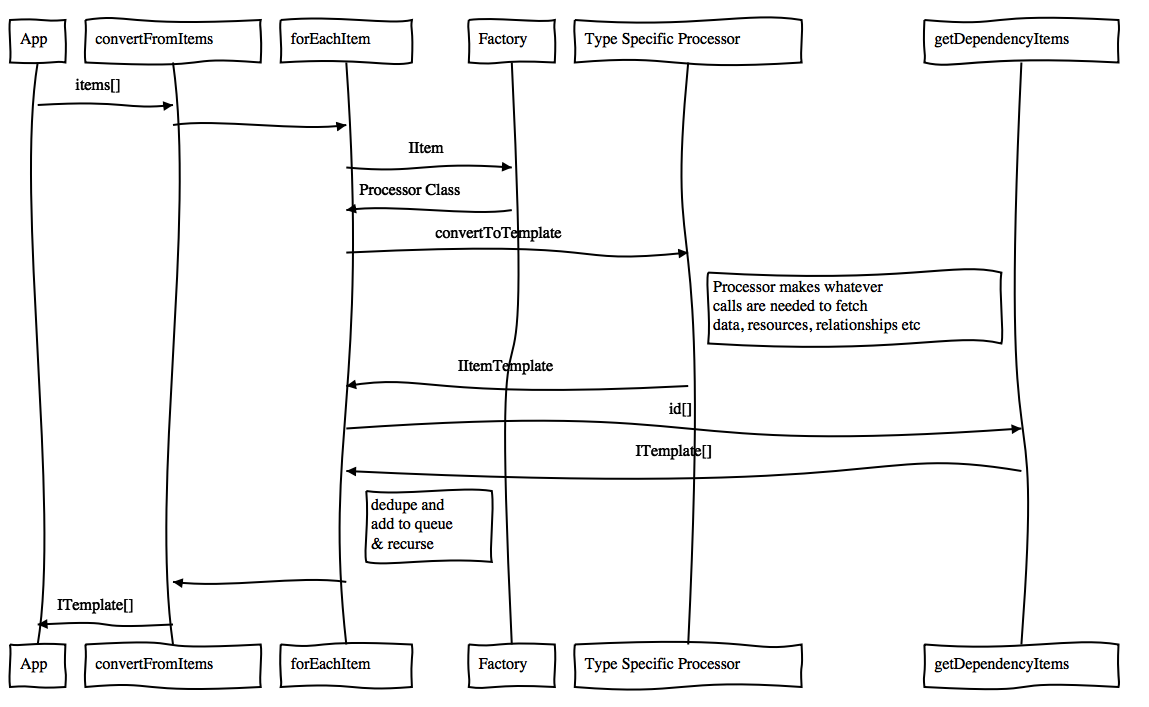
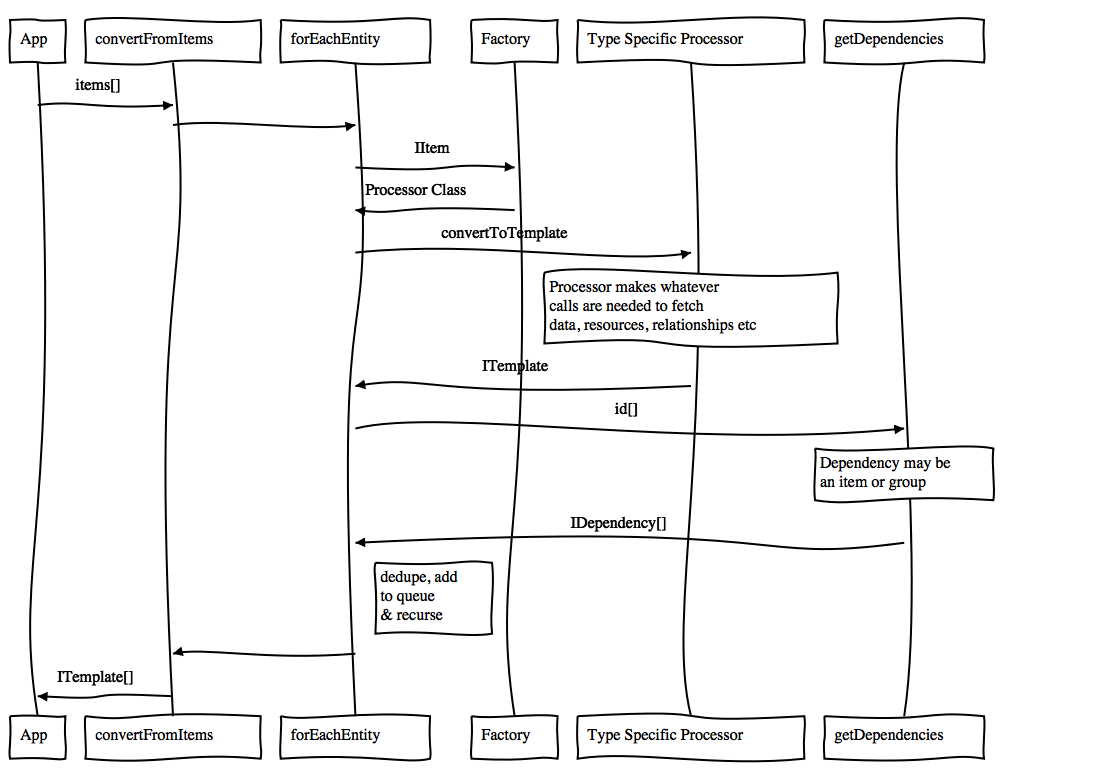
more updates re: group handling

Changed region(s): [[0.0, 0.0, 0.9775, 0.9958], [0.1222, 0.4668, 0.1527, 0.529], [0.8553, 0.2801, 0.8859, 0.3112]]

diff --git a/core-api.md b/core-api.md
@@ -5,6 +5,9 @@ The three main processes make up the "core" of the Solution.js system:
 - **Persistence**: store an array of templates in a "Solution" item
 - **Deployment**: create and connect a stack of new items, from an array of templates, optionally creating a Solution Item that has links to all the created items
 
+
+    
+
 # Conversion to Templates
 
 Key changes to this area of the codebase:
@@ -17,6 +20,27 @@ Key changes to this area of the codebase:
 The "Conversion" functions all return an array of `ITemplate` objects. This can then be directly used in the Deployment functions or persisted in a Solution item
 
 ![Conversion to Template Sequence Diagram](./diagrams/convert-to-template.png)
+
+## Unresolved Conversion Issues
+
+#### How to handle groups?
+**Problem**:  
+ - Some items depend on groups.
+ - Some items will just want the group created
+ - Some items will expect the group _content_ to be included as dependencies of the solution
+
+**Currently**:
+During the conversion process, groupId's are returned in the `dependencies` array, leading to complexity all over the place
+
+**Instead**
+Couple options here, none of which seem "complete" yet...
+
+a) Dependencies array is made up of `IDependency` objects like `{id: '3ef', type: 'Web Map'}, {id: 'bc7', type:'Group}`. Keeps a single array, but does not communicate if we need to include the group content...
+
+b) Processor fetchs the group, returns an `IGroupTemplate`, and if it wants the group contents templated, it should fetch all the item ids for the items in the group, and return them in `.dependencies[]`. The `IGroupTemplate`
+
+c) original processor returns `dependencies` array, and a `groups` array filled with objects `{id: '3ef', includeItems: true}`
+
 
 ## Convert Group Content to Templates
 
@@ -78,9 +102,9 @@ export saveAsSolutionTemplate(
   ):Promise<ISolutionModel> {...}
 ```
 
-*Note*: This process must also copy each of the `IResourceInfo`s to a resources of the Solution item itself, updating the `IResourceInfo.url` property as it does so.
+*Note*: This process must also copy each of the `ISolutionResource`s to a resources of the Solution item itself, updating the `ISolutionResource.sourceUrl` property as it does so.
 
-[IItemAdd](https://esri.github.io/arcgis-rest-js/api/types/IItemAdd/): Baseline information to create an item, in this case specific to creating the Solution item
+**Reference** [IItemAdd](https://esri.github.io/arcgis-rest-js/api/types/IItemAdd/): Baseline information to create an item, in this case specific to creating the Solution item. We may change this to a more minimal interface.
 
 # Deployment of a Solution
 This is the process of converting from templates, back into fully operational items.
@@ -94,6 +118,14 @@ Key changes to this area of the codebase:
 
 ![Deployment Sequence Diagram](./diagrams/deploy-from-template.png)
 
+
+## Unresolved Deployment Issues
+
+#### Handling sharing of deployed items to Groups
+- Groups should always be created before any items
+- GroupProcessor could handle the sharing of items to the group in the "second pass" 
+OR
+- ItemProcessors share to group right after item creation. Would require some processing of the template hash to push this information into the `IItemTemplate.groupsToShareWith` property
 
 ## Deploy templates directly
 

diff --git a/interfaces.md b/interfaces.md
@@ -50,8 +50,10 @@ interface ISolutionData {
   templates: ITemplate[];
   // metadata: object; // This is currently in the Solution items, but does not seem to be used...
   params: object; // parameters needed for the solution - aka indicators
+  output?: ITemplateOutput[] // pointers to created items/groups, with refs back to templates
 }
 ```
+
 
 ## TemplateType
 ```js
@@ -75,6 +77,7 @@ Details for groups that need to be created
 ```js
 interface IGroupTemplate extends ITemplate {
   group: object; // group properties
+  itemsToShare: string[]; // id of the items to be shared to this group when they are created
 }
 ```
 
@@ -97,37 +100,40 @@ interface IItemTemplate extends ITemplate {
 When 'in-memory' the sourceUrl's point to the original resource location. When in a Solution Template item, the sourceUrl will point to resources of the Solution Template item.
 
 ```js
-{
-  fileName: string; // url where this resource can be fetched from
-  type: ResourceType; // filename to store on destination item
+interface ISolutionResource {
+  fileName: string; // file name of the resource itself
+  type: ResourceType; // resoruce type information
   path: string; // folder path used on destination item
   sourceUrl: string; // url where this can be fetched from
 }
 ```
 
 ### ResourceType
+**TODO**: Check with Mike T re: when `fakezip` is used, and how we would handle that for the in-memory scenario
+
 ```js
 type SolutionResourceType = "thumbnail" | "metadata" | "resource" | "data" | "fakezip"
 ```
 
 
-## ISolutionData
+## IDependency
 
 ```js
-{
-  templates: IItemTemplate[],
-  metadata: object; 
+interface IDependency {
+  sourceId: string;
+  type: string;
+  params: object; // hash of type specific properties
 }
 ```
-
 
 ## ITemplateOutput
 Information about the deployed entity (item or group) that is stored in the Solution item
 ```js
-{
-  id: string; // id of the deployed item
-  type: string; // type of the deployed item
-  url?: string; // url of the deployed item, if appropriate
+interface ITemplateOutput {
+  sourceId: string; // id of the original item but more importantly the id of the template this was created from
+  id: string; // id of the deployed item/group
+  type: string; // 
+  url?: string; // url of the deployed item/group, if appropriate
   properties?: object; // hash containing details of the created entity. Will be stripped before storing in the Solution
 }
 ```

diff --git a/processor-api.md b/processor-api.md
@@ -18,13 +18,13 @@ For groups, the processor can indicate if the group should simply be created, or
 ## Resource Copying
 This will be used when persisting an IItemTemplate into a Solution item. This allows for type specific logic/naming etc to be applied when copying resources from their source item, to the solution item
 
-`public static copyResourcesToSolution(template: IItemTemplate, authentication: IAuthenticationManager):Promise<IItemTemplate>`
+`public static copyResourcesToSolution(template: ITemplate, authentication: IAuthenticationManager):Promise<IItemTemplate>`
 
 Returns an updated IItemTemplate, in which the resource urls have been udpated to point to the Solution vs the original item
 
 ## Deploy from Template
 
-`public static createFromTemplate(IItemTemplate, authentication: IAuthenticationManager):Promise<ISolutionItem>`
+`public static createFromTemplate(template: ITemplate, authentication: IAuthenticationManager):Promise<ISolutionItem>`
 
 TODO: Decide what the return from this is
 
